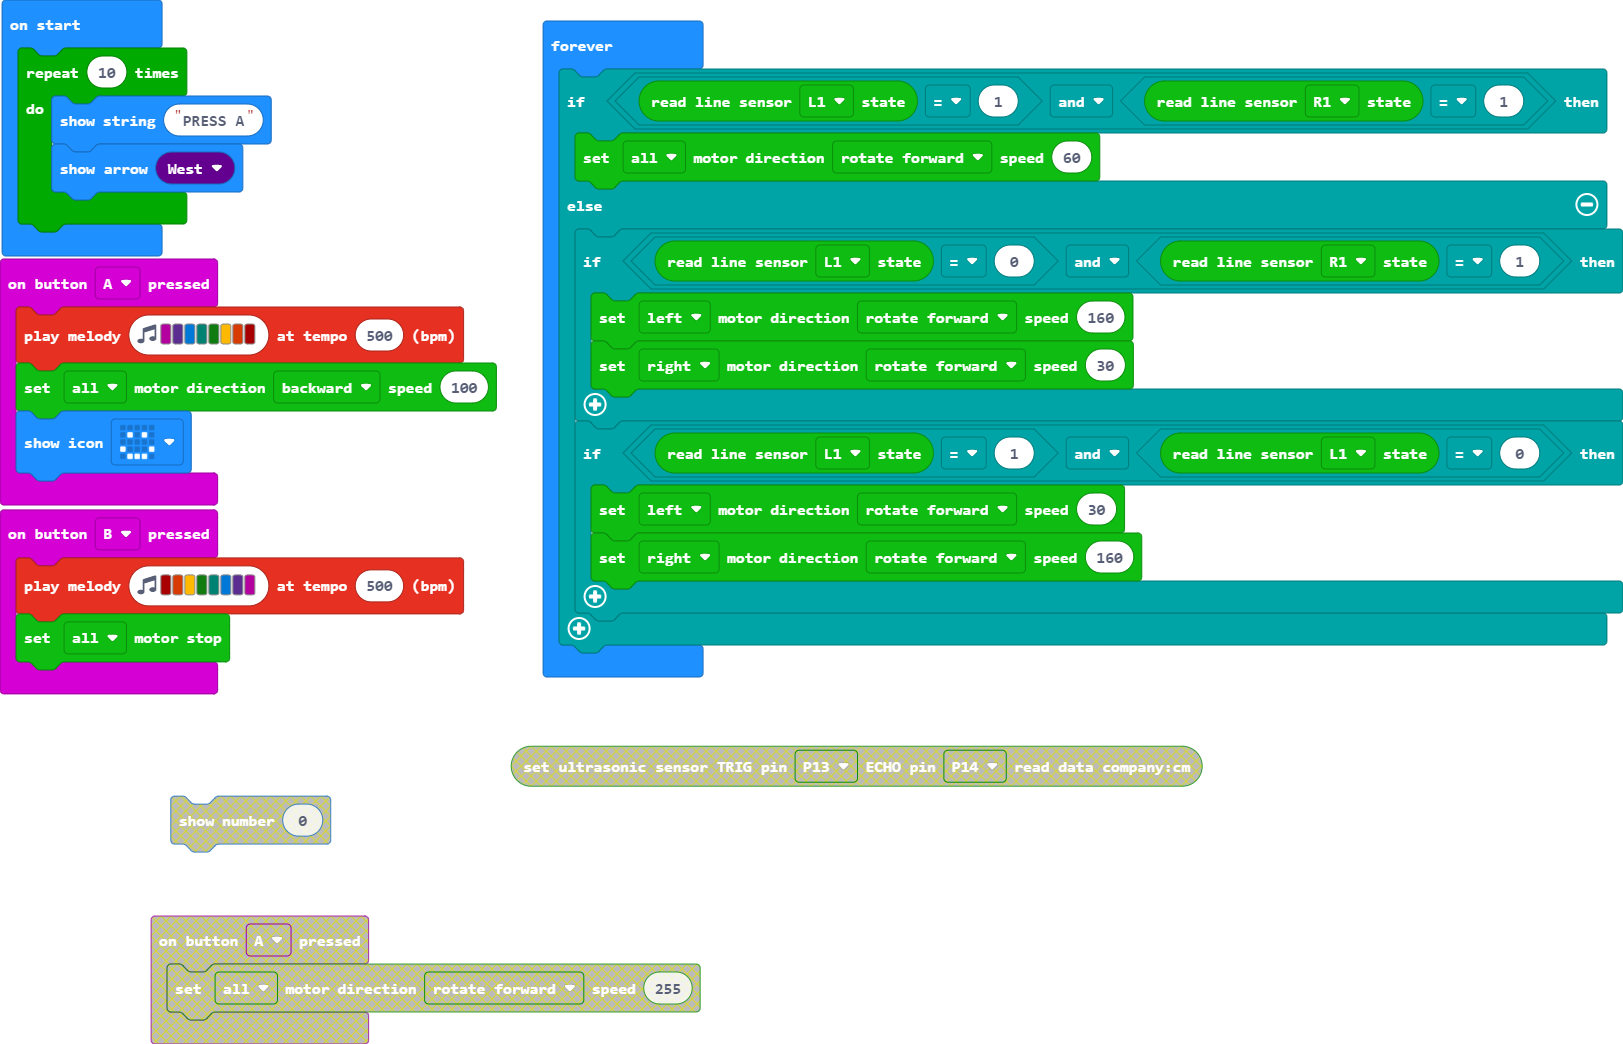
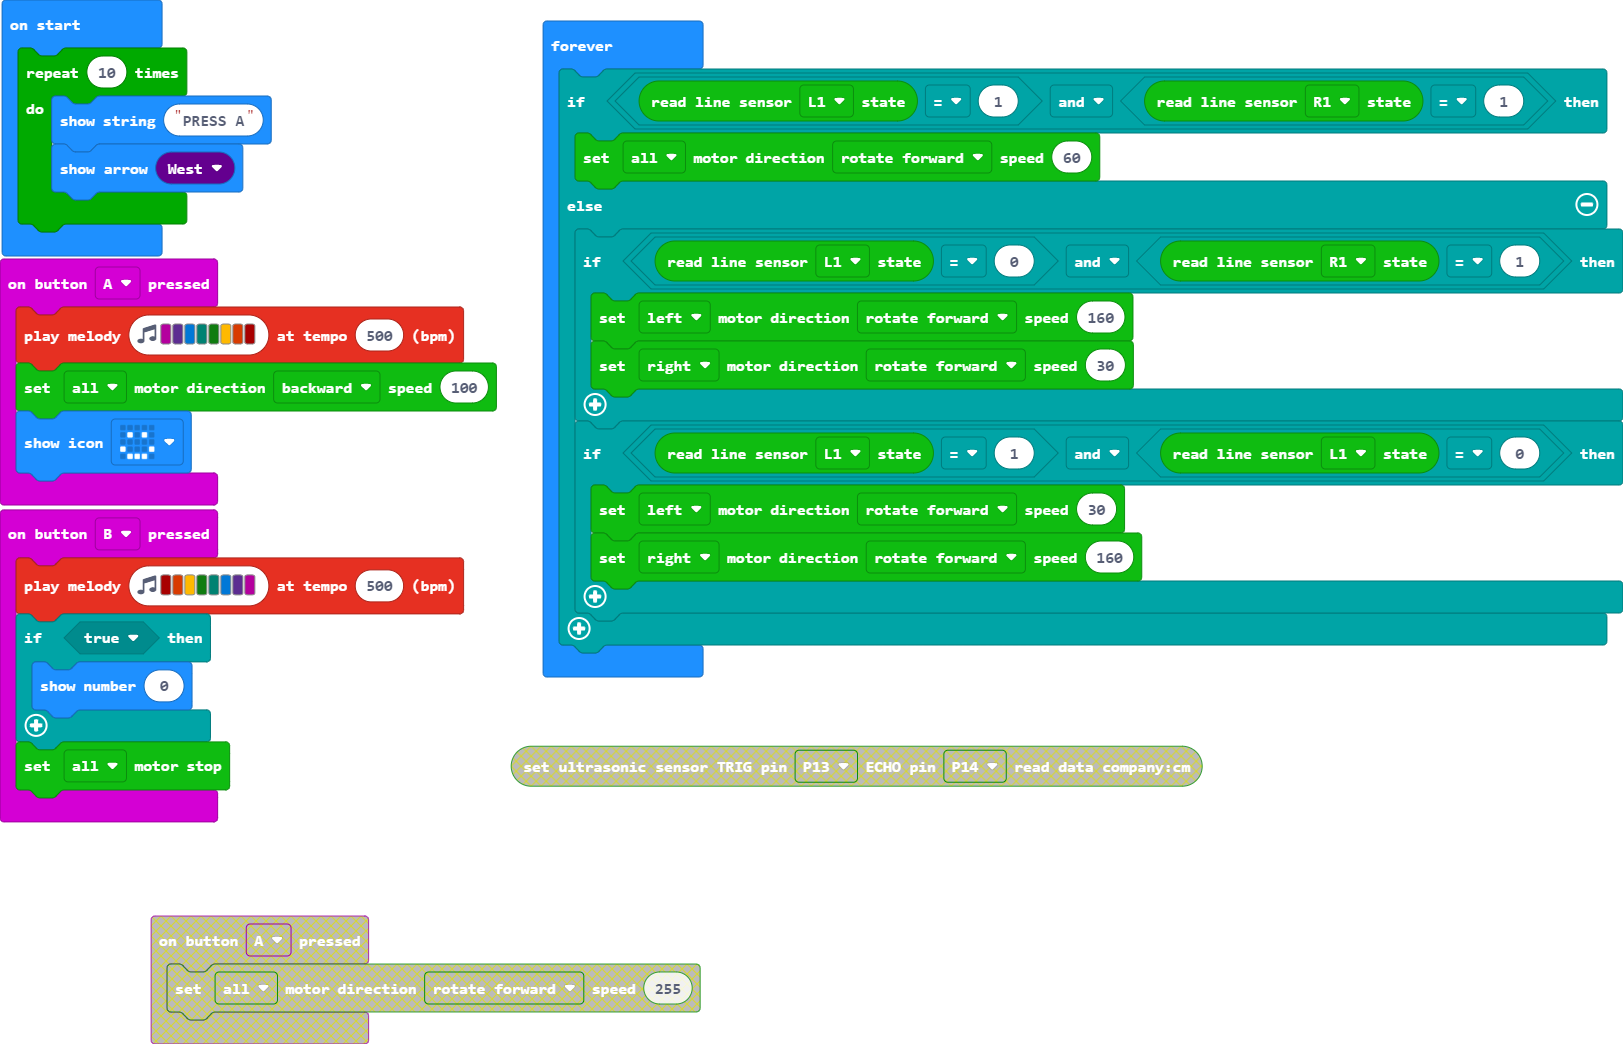
Update main.blocks, main.ts

Changed region(s): [[0.0, 0.5824, 0.2157, 0.8276]]

diff --git a/main.ts b/main.ts
@@ -5,6 +5,9 @@ input.onButtonPressed(Button.A, function () {
 })
 input.onButtonPressed(Button.B, function () {
     music.playMelody("C5 B A G F E D C ", 500)
+    if (true) {
+        basic.showNumber(0)
+    }
     DFRobotMaqueenPlusV2.controlMotorStop(MyEnumMotor.eAllMotor)
 })
 for (let index = 0; index < 10; index++) {
